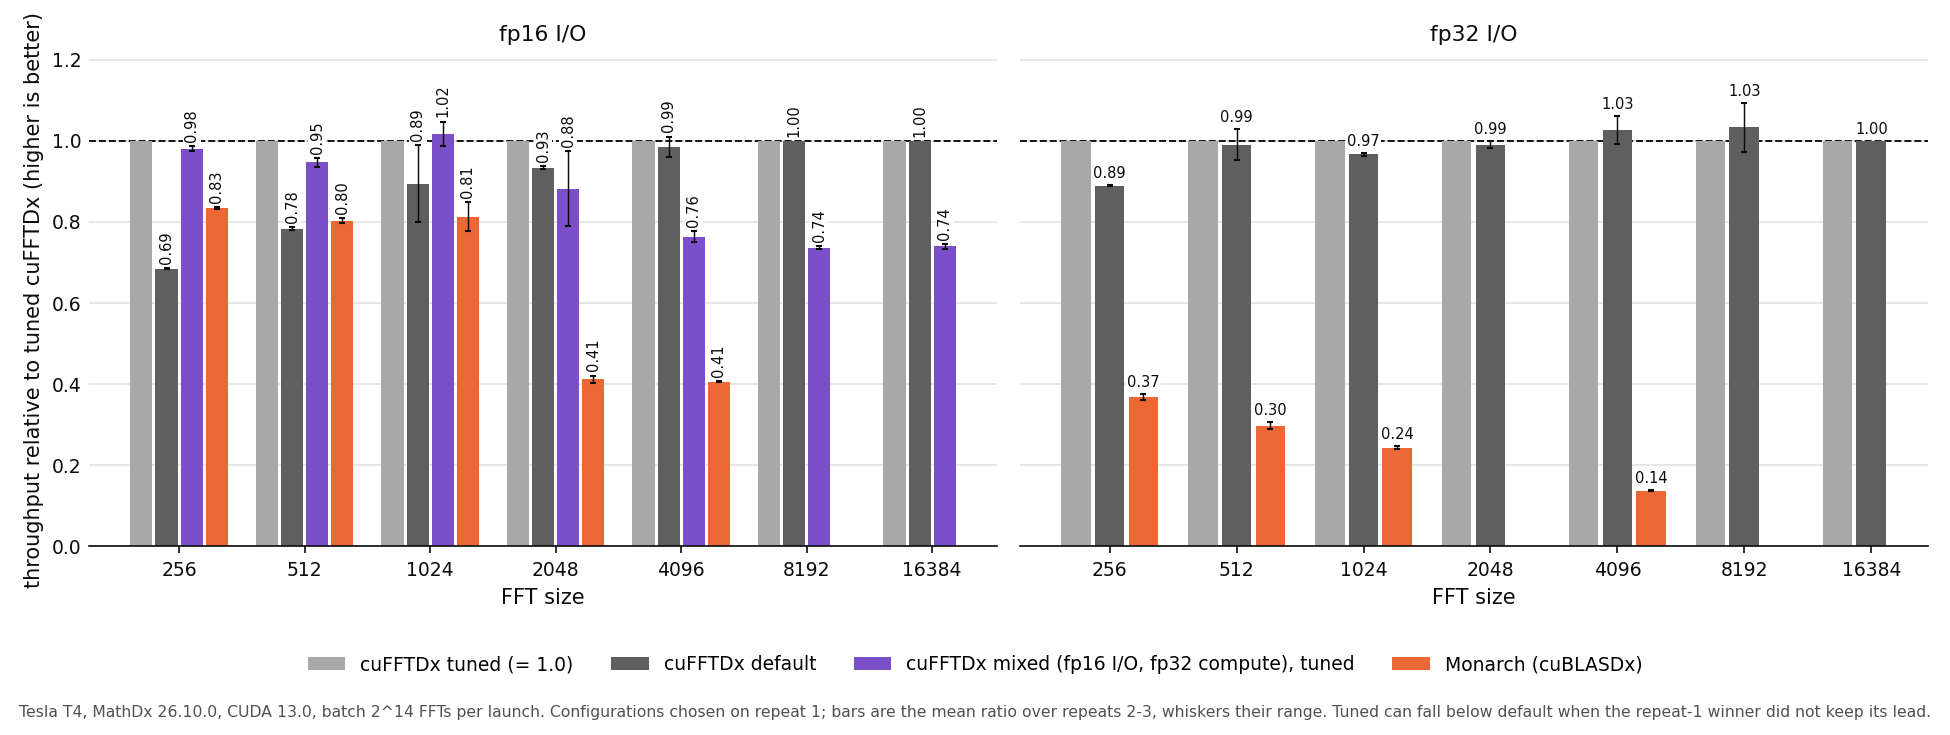
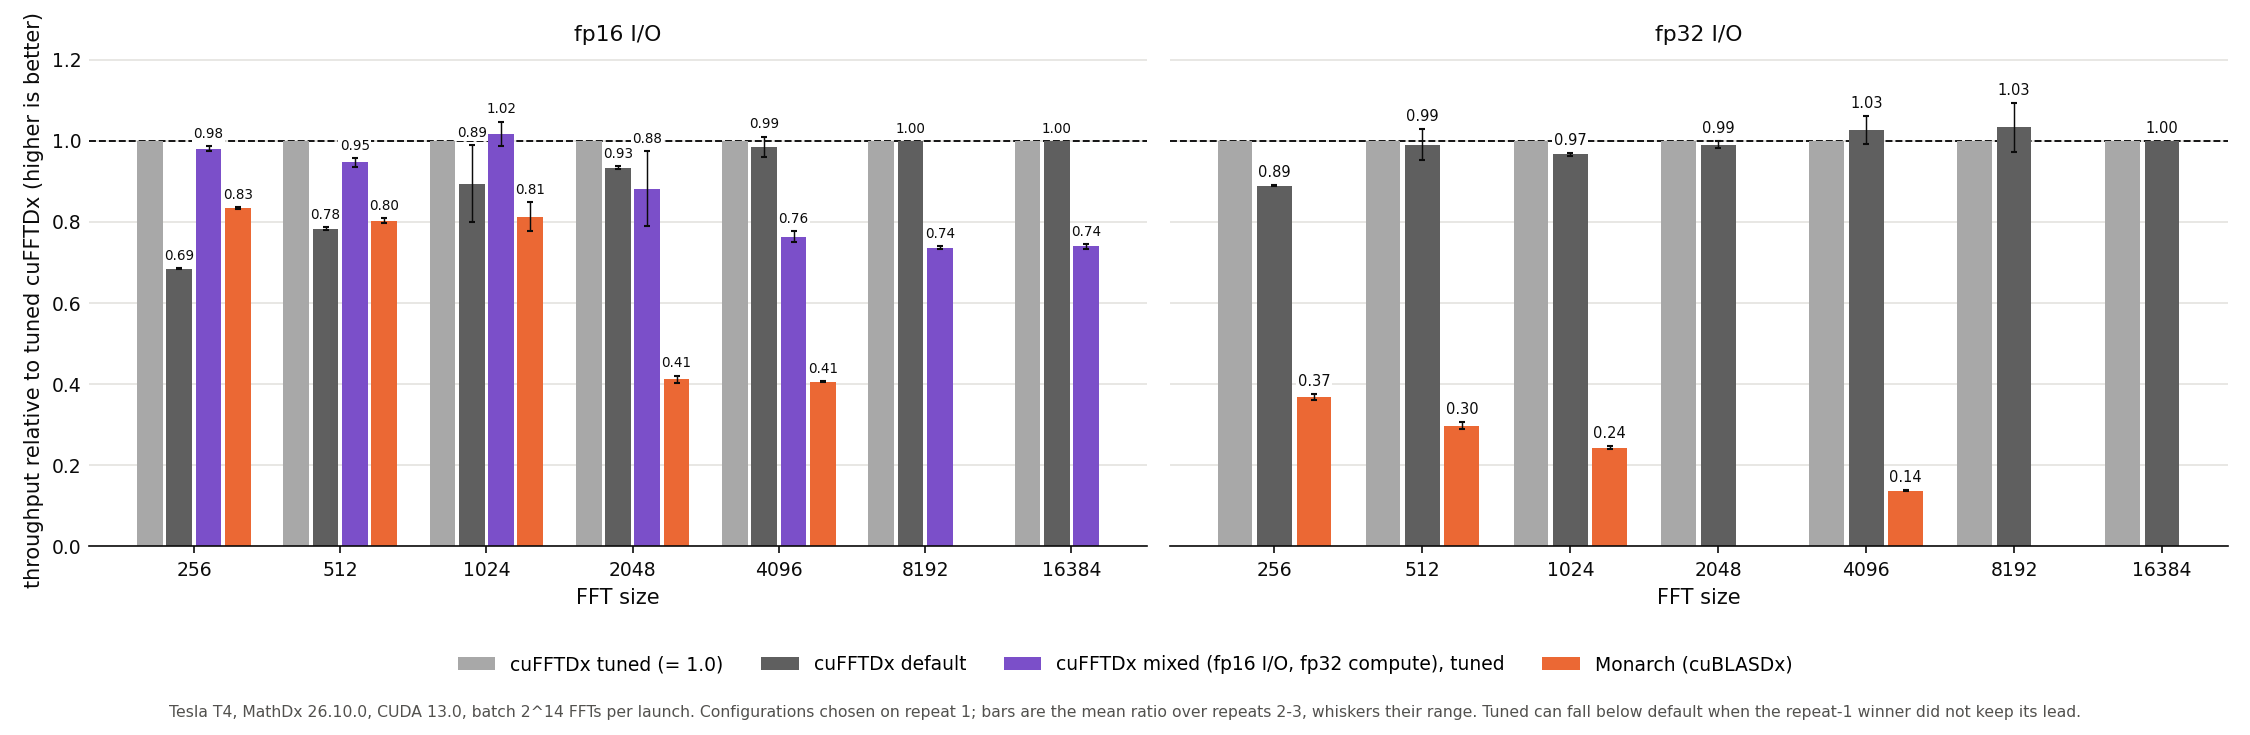
draw throughput ratio labels horizontally above the whiskers

diff --git a/scripts/final.py b/scripts/final.py
@@ -212,7 +212,7 @@ def figures(sel, reps, later, err, out):
     if have_c32:
         roles.append(("c32_tuned", "cuFFTDx mixed (fp16 I/O, fp32 compute), tuned"))
     roles.append(("monarch", "Monarch (cuBLASDx)"))
-    fig, axes = plt.subplots(1, 2, figsize=(13, 4.9), sharey=True)
+    fig, axes = plt.subplots(1, 2, figsize=(15, 4.9), sharey=True)
     for ax, prec in zip(axes, plot.PRECS):
         ns = sorted({n for (_, p, n) in sel if p == prec})
         present = [(r, name) for r, name in roles if any(ratios(r, prec, n) for n in ns)]
@@ -231,8 +231,9 @@ def figures(sel, reps, later, err, out):
                 if hi > lo:
                     ax.errorbar(x, m, yerr=[[m - lo], [hi - m]], color=plot.INK, linewidth=0.7, capsize=1.5, zorder=3)
                 # white box: keeps the dashed 1.0 line and neighbouring bars from cutting through the label
-                ax.annotate(f"{m:.2f}", (x, hi), xytext=(0, 2), textcoords="offset points", ha="center", va="bottom",
-                            fontsize=7, color=plot.INK, rotation=90 if len(present) > 3 else 0, zorder=4,
+                # horizontal, anchored at the whisker top: rotated labels ran into the whiskers
+                ax.annotate(f"{m:.2f}", (x, hi), xytext=(0, 2.5), textcoords="offset points", ha="center", va="bottom",
+                            fontsize=6.5 if len(present) > 3 else 7, color=plot.INK, zorder=4,
                             bbox=dict(boxstyle="square,pad=0.1", facecolor="white", edgecolor="none"))
         ax.axhline(1.0, color=plot.INK, linestyle="--", linewidth=0.9, zorder=1)
         ax.set_xticks(range(len(ns)), [str(n) for n in ns])
